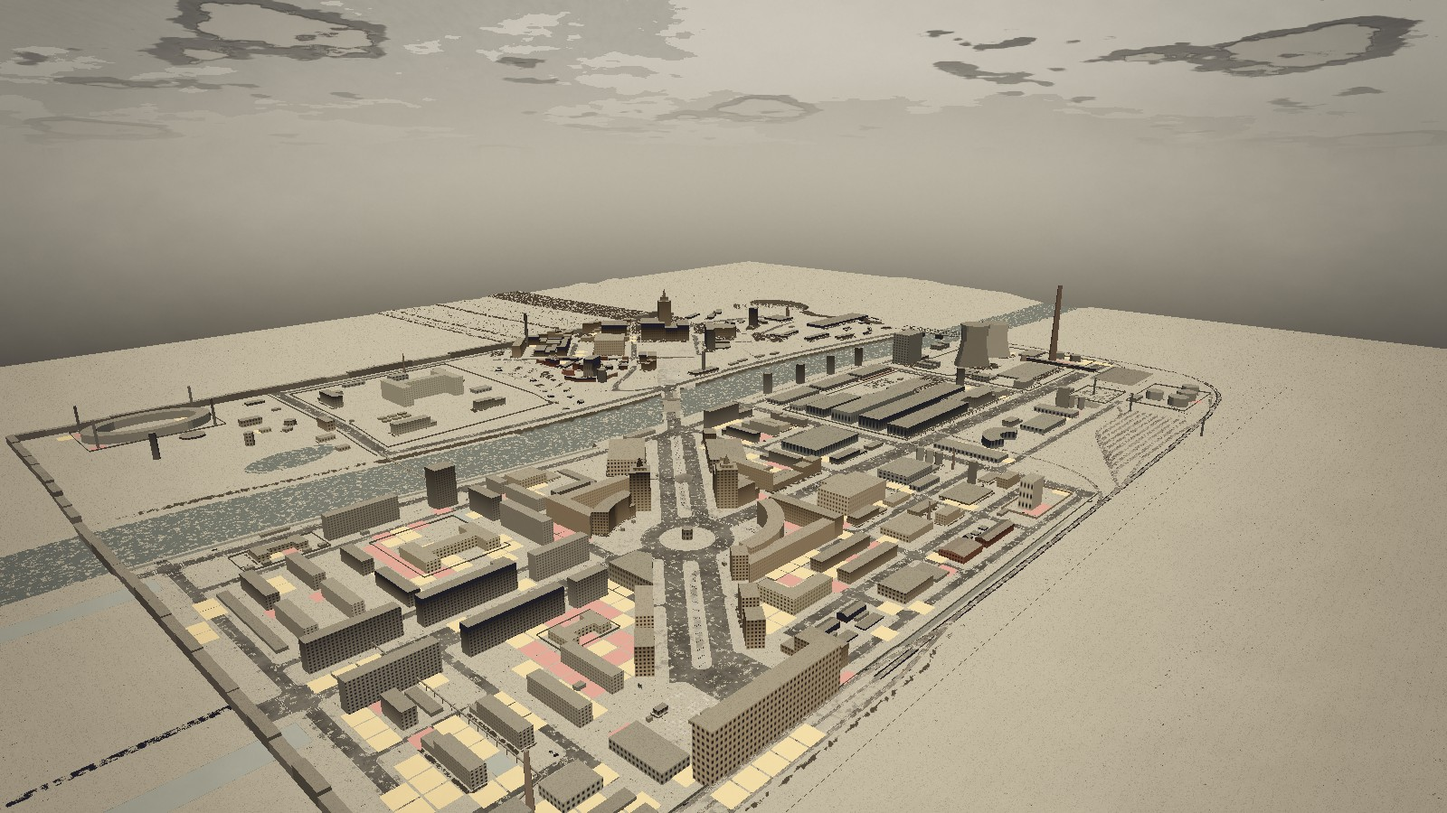
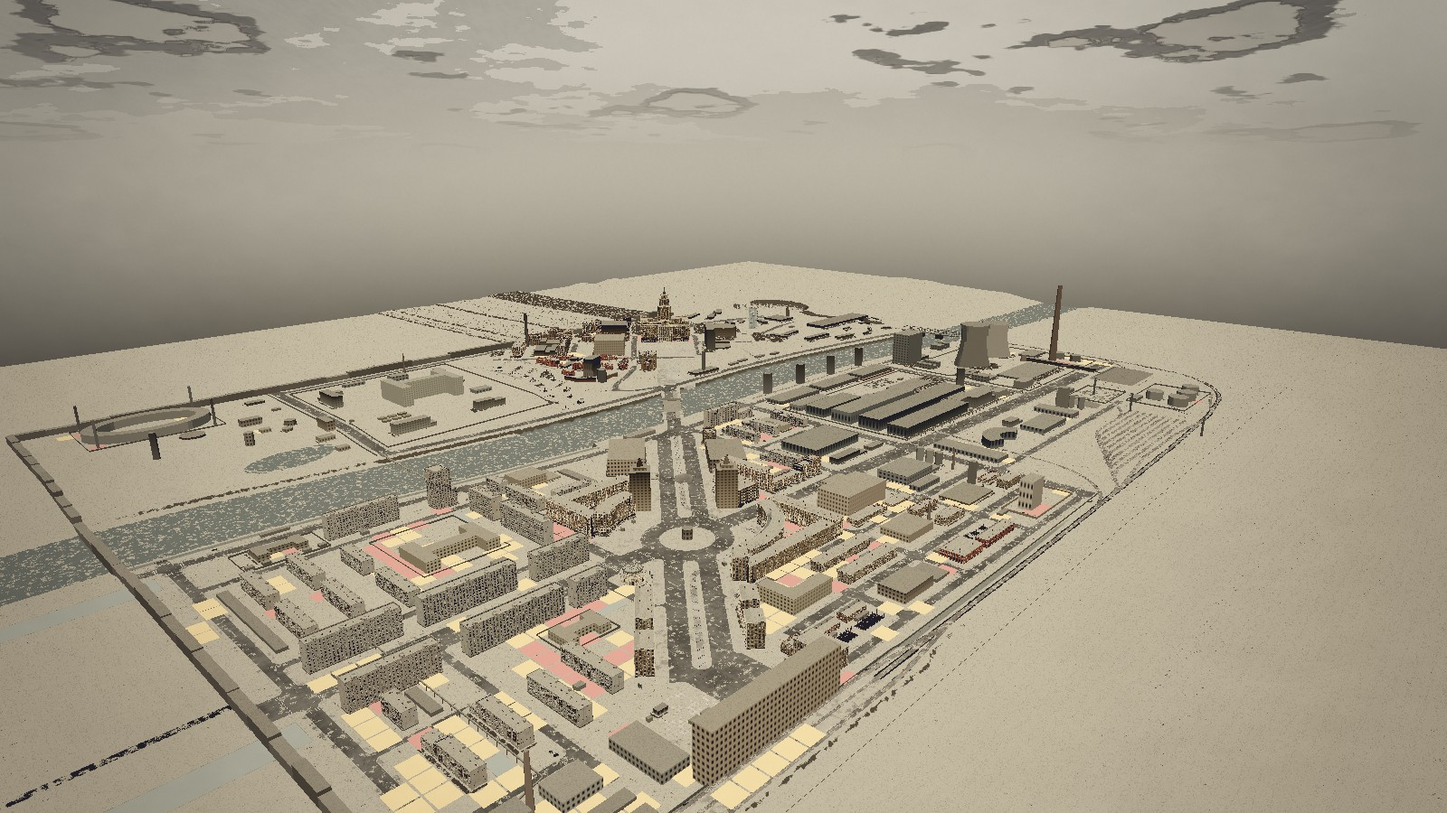
Documenta los edificios del kit en la maqueta y rehace sus capturas (F3-16)
CIUDAD.md explica las explanadas de los singulares (sección 5), cómo están los
edificios del kit en la maqueta (sus tres escalones de detalle, el zócalo en
ladera, el foso del vestíbulo y el boquete de los Sóviets) y pone al día el
tiempo de levantarla, el rendimiento medido y la regla de los hitos. Las
decisiones nuevas: D-051 (los edificios con modelo propio mandan sobre el plano
a su alrededor) y D-052 (tres escalones de detalle por edificio). DESARROLLO.md
suma CityKit, las vistas Ctrl+4 y Ctrl+5 y las cámaras nuevas del diorama; el
README, lo hecho y lo siguiente.

Capturas: las de la maqueta donde ahora se ven edificios del kit, las dos vistas
nuevas (el vestíbulo y la Casa de los Sóviets) y el barracón con su escalerilla.
Las que solo cambiaban las nubes (que se mueven con el reloj) se quedan como
estaban.

Claude-Session: https://claude.ai/code/session_01P5KpG2Qgr3Z8sBeyxBpkXC

diff --git a/docs/CIUDAD.md b/docs/CIUDAD.md
@@ -126,6 +126,8 @@ El relieve decide qué se ve y desde dónde:
 - El terraplén de la vía es un camino alto y expuesto.
 - Los montones de escombros cortan calles y abren pasos por encima.
 
+Los edificios con modelo propio (los singulares de [la sección 14](#14-cómo-se-construye)) se asientan en una explanada a su cota: el terreno se allana bajo su huella y unos metros alrededor (lo que el modelo sale de ella: el pórtico de la Casa de los Sóviets, por ejemplo), y vuelve a su altura en una transición suave. Tampoco reciben montones de escombros del plano: traen el suyo ([D-051](DECISIONES.md)).
+
 El relieve se exporta en `data/ciudad/relieve.png`: 16 bits, 2 m por píxel, y metros = valor / 100 − 50.
 
 ## 6. El río y sus cinco cruces
@@ -253,10 +255,10 @@ Los tipos siguen las medidas de las series soviéticas reales. Los interiores de
 
 1. **El plano son datos.** `tools/ciudad/datos.py` decide la posición, el tipo, las plantas, el uso y las notas de cada cosa. `plano.py` calcula el daño, los incendios, los escombros y el relieve, y lo exporta a `data/ciudad/plano.json`.
 2. **Maqueta automática** (hecha, F3-15): un generador en Godot lee el plano y levanta la ciudad en volúmenes sencillos (relieve, calles, edificios a su altura, escombros) para probar recorridos, vistas y rendimiento antes de construir nada. Ver [la sección 15](#15-la-maqueta).
-3. **Kit modular** (hecho para las viviendas, F3-16): cada tipo de edificio se monta con las piezas del kit de arquitectura soviética (paneles, ventanas, balcones, portales, escaleras, cubiertas), con el daño de su nivel y las variaciones de su semilla. Ya se montan las 138 viviendas del plano (las estalinistas y las casas obreras, las de antes de la revolución, las isbas, las jrushchovkas, los bloques, la torre y los barracones), con las mismas reglas de daño que la maqueta; el resto de los tipos sigue en volúmenes. Ver [DESARROLLO.md](DESARROLLO.md#el-kit-de-arquitectura-f3-16).
+3. **Kit modular** (hecho para las viviendas, F3-16): cada tipo de edificio se monta con las piezas del kit de arquitectura soviética (paneles, ventanas, balcones, portales, escaleras, cubiertas), con el daño de su nivel y las variaciones de su semilla. Ya se montan las 138 viviendas del plano (las estalinistas y las casas obreras, las de antes de la revolución, las isbas, las jrushchovkas, los bloques, la torre y los barracones), con las mismas reglas de daño que la maqueta, y ya están en ella; el resto de los tipos sigue en volúmenes. Ver [DESARROLLO.md](DESARROLLO.md#el-kit-de-arquitectura-f3-16).
 
    ![Una estalinista de esquina en la plaza del Trabajo, montada con el kit](capturas/fase3_kit_estalinka.jpg)
-4. **Sitios clave a mano:** los 44 edificios con interior hecho a mano y los lugares de las misiones se terminan uno a uno, como modelos enteros ([D-038](DECISIONES.md)). Hechos los tres primeros: el vestíbulo del metro (PLZ-06), con la sala, la esclusa y las escaleras; el Edificio Partido (ZC-01), con sus catorce plantas abiertas al cráter y la escalera hasta la azotea, y la Casa de los Sóviets con su torre (CEN-SOV y CEN-SOVT). Ver [DESARROLLO.md](DESARROLLO.md#los-edificios-singulares). Al llevarlos a la maqueta, el relieve tendrá que respetar sus huecos y quitar el montón de escombros que el generador pone sobre la huella del Edificio Partido, que ya trae el suyo.
+4. **Sitios clave a mano:** los 44 edificios con interior hecho a mano y los lugares de las misiones se terminan uno a uno, como modelos enteros ([D-038](DECISIONES.md)). Hechos los tres primeros: el vestíbulo del metro (PLZ-06), con la sala, la esclusa y las escaleras; el Edificio Partido (ZC-01), con sus catorce plantas abiertas al cráter y la escalera hasta la azotea, y la Casa de los Sóviets con su torre (CEN-SOV y CEN-SOVT). Ver [DESARROLLO.md](DESARROLLO.md#los-edificios-singulares). Ya están en la maqueta, cada uno en su explanada y sin el escombro del plano, y el terreno no tapa el foso de las escaleras del metro.
 5. **Carga por sectores:** la ciudad se carga en celdas de 200 × 200 m. Hay detalle completo en la celda del jugador y en las de alrededor, y versiones simplificadas más lejos. Las manzanas sirven de oclusores (lo que tapan no se dibuja), algo imprescindible para llegar a 60 fps con la gráfica integrada.
 
 **Para cambiar algo:** se edita `tools/ciudad/datos.py` y se ejecuta `make ciudad`. Si algo se solapa, pisa la calle o cae en la zona equivocada, el generador lo dice y la CI no pasa.
@@ -265,12 +267,13 @@ Los tipos siguen las medidas de las series soviéticas reales. Los interiores de
 
 ![Tumansk desde el aire, sin niebla](capturas/fase3_maqueta_aerea.jpg)
 
-La maqueta (`scenes/debug/maqueta_ciudad.tscn`, F3-15) levanta la ciudad entera desde los datos del plano en unos cinco segundos (tres son la red de tránsito, que se levanta sector a sector en varios hilos). Se recorre a pie (a 1,4 m/s y con colisión) o volando, y tiene herramientas para medir. Cómo se abre y sus teclas, en [DESARROLLO.md](DESARROLLO.md#la-maqueta-de-la-ciudad-f3-15).
+La maqueta (`scenes/debug/maqueta_ciudad.tscn`, F3-15) levanta la ciudad entera desde los datos del plano en unos nueve segundos (cuatro son la red de tránsito, que se levanta sector a sector en varios hilos, y uno y medio, los edificios del kit). Se recorre a pie (a 1,4 m/s y con colisión) o volando, y tiene herramientas para medir. Cómo se abre y sus teclas, en [DESARROLLO.md](DESARROLLO.md#la-maqueta-de-la-ciudad-f3-15).
 
 - **Lo que se levanta:**
   - El relieve, cada 2 m, pintado con el suelo del plano (el hielo, las vías, los patios y los escombros) bajo la nieve vieja.
   - La red de tránsito: calzadas, aceras, plazas, sendas, escaleras y el tablero del puente, con sus bordillos, muros, pretiles, pasos de cebra, tapas y sumideros. Ver [la sección 16](#16-la-red-de-tránsito).
   - Los 357 edificios, a su altura y con lo que queda en pie según su daño. Las torres llevan aguja (la de la Casa de los Sóviets, doblada hacia el suroeste), las chimeneas se estrechan, las torres de refrigeración tienen su forma y las casas de madera y las de antes de la revolución llevan tejado a dos aguas.
+  - Los 142 que sabe montar el kit de arquitectura (las 138 viviendas y los cuatro singulares) son, de cerca, sus modelos; de lejos, sus volúmenes ([la sección de abajo](#los-edificios-del-kit-en-la-maqueta)).
   - Los 866 vehículos, los 2685 árboles y los puentes (el del Progreso, con su vano hundido sobre el hielo, y el del ferrocarril, de celosía).
   - Las tuberías elevadas (el tubo cruza el río con su pasarela), las vallas, la línea eléctrica y el muro de la autovía caída al oeste y al norte.
 - **El daño en volumen:**
@@ -283,23 +286,36 @@ La maqueta (`scenes/debug/maqueta_ciudad.tscn`, F3-15) levanta la ciudad entera 
 
 ![Las rutas y los sectores de la orilla sur](capturas/fase3_maqueta_rutas.jpg)
 
+### Los edificios del kit en la maqueta
+
+Los edificios que sabe montar el kit (F3-16) se levantan con su ficha del plano: su huella, sus plantas, su daño y su incendio, los patios de su manzana y dónde cayó la bomba. Levantar la ciudad con ellos cuesta un segundo y medio más.
+
+- **De cerca, su modelo; de lejos, su volumen** ([D-052](DECISIONES.md)). Dentro de la versión detallada de su sector, cada edificio tiene tres escalones: su volumen a más de 200 m; de 200 a 60 m, su modelo sin sombras (las proyecta su volumen); y, más cerca, el modelo entero. Lo que va en los huecos de las fachadas (ventanas, puertas, escaparates y los cuartos de detrás) no proyecta sombra nunca. Los hitos siguen viéndose de lejos, solos, como siempre.
+- **En ladera**, el kit pone el edificio a su cota y la maqueta le añade un zócalo de piedra hasta 40 cm por debajo del punto más bajo de su huella, para que no flote por el lado de abajo. Lo llevan 41 de los 138 (los que tienen más de 15 cm de desnivel bajo la huella); bajo las isbas de la loma hay hasta 1,7 m.
+- **Los singulares** (el vestíbulo del metro, el Edificio Partido y la Casa de los Sóviets con su torre) están en su explanada, sin el escombro del plano. Chocan con su propia colisión, así que en ellos se entra, y no tapan la vista como oclusores (se ve a través de su peristilo, sus plantas abiertas y su boquete). En el vestíbulo, el terreno no se dibuja ni choca donde bajan las escaleras: se sale del metro por su foso. En la Casa de los Sóviets se sube por el escombro de la fachada reventada hasta el boquete y se baja al cuarto quemado que quedó detrás.
+- **Los demás** chocan como su volumen: no se entra en ellos.
+
+| | |
+|---|---|
+| ![El vestíbulo del metro en su plaza, en la maqueta](capturas/fase3_maqueta_vestibulo.jpg) | ![La Casa de los Sóviets cierra la avenida, en la maqueta](capturas/fase3_maqueta_soviets.jpg) |
+
 ### Lo que ha enseñado la maqueta
 
-- **Los hitos se ven desde casi toda la calle, pero no desde los patios.** Con línea de visión desde la altura de los ojos (cada 20 m, fuera de los edificios), desde el 92 % de los 4039 puntos se ven al menos dos hitos. Por zonas:
+- **Los hitos se ven desde casi toda la calle, pero no desde los patios.** Con línea de visión desde la altura de los ojos (cada 20 m, fuera de los edificios), desde el 92 % de los 4055 puntos se ven al menos dos hitos. Por zonas:
 
   | Zona | Se ven dos o más |
   |---|---|
   | El río, el Parque y el Hospital, la Zona Industrial | 97–100 % |
-  | El Centro, la Zona Cero | 93–95 % |
-  | La Avenida y el Mercado, el Barrio Obrero, La Plaza | 82–83 % |
-  | Los Bloques | 73 % |
+  | El Centro, la Zona Cero | 91–93 % |
+  | La Avenida y el Mercado, el Barrio Obrero, La Plaza | 80–84 % |
+  | Los Bloques | 75 % |
 
   Los puntos ciegos son casi todos patios cerrados: los de los microdistritos, los del Barrio Obrero y los de las manzanas estalinistas (rosa: ningún hito; amarillo: uno). La regla del plano («desde cualquier punto») se cumple en las calles; en los patios habría que aceptarlo o añadir hitos que asomen por encima de los tejados (una chimenea de calefacción, un depósito de agua, una antena).
 
   ![Puntos ciegos: desde las baldosas rosas no se ve ningún hito; desde las amarillas, uno](capturas/fase3_maqueta_hitos.jpg)
 
 - **La niebla de día tapa la ciudad a partir de unos 300 m.** Solo los hitos la atraviesan ([D-027](DECISIONES.md)): por eso desde la avenida se ve la torre de la Casa de los Sóviets a 850 m, pero no el resto del centro.
-- **Rendimiento** (contado en el entorno de desarrollo, sin gráfica; los fps hay que medirlos en tu PC con la tecla B): a pie de calle se dibujan entre 80 y 200 objetos por imagen (llamadas de dibujo) y entre 0,48 y 0,6 millones de triángulos, con la oclusión activa (quita hasta una cuarta parte de las llamadas en la zona industrial y alrededor de un 12 % en la plaza). La mayor parte de los triángulos es el relieve detallado, no los edificios: es lo primero que habría que aligerar si hiciera falta.
+- **Rendimiento** (contado en el entorno de desarrollo, sin gráfica; los fps hay que medirlos en tu PC con la tecla B): a pie de calle, con la red de tránsito y los edificios del kit, se dibujan entre 120 y 1.250 objetos por imagen (llamadas de dibujo, contando las de las sombras) y entre 0,4 y 1,9 millones de triángulos. Las calles con edificios del kit son las más caras (entre 900 y 1.250 llamadas; con volúmenes, entre 400 y 670), y las sombras se llevan entre un tercio y la mitad. La oclusión activa quita hasta una cuarta parte de las llamadas en la zona industrial. Si hiciera falta aligerar, lo siguiente es juntar las piezas iguales de los edificios de una manzana en una sola malla (ahora cada edificio tiene una por pieza).
 
 | | |
 |---|---|

diff --git a/README.md b/README.md
@@ -102,11 +102,16 @@ Todo está explicado en [docs/CIUDAD.md](docs/CIUDAD.md), con cuatro hojas: [gen
 | ![Tumansk desde el aire, sin niebla](docs/capturas/fase3_maqueta_aerea.jpg) | ![La avenida, hacia el puente y la Casa de los Sóviets](docs/capturas/fase3_maqueta_avenida.jpg) |
 | ![Las rutas y los sectores](docs/capturas/fase3_maqueta_rutas.jpg) | ![El panel: dónde estás, qué tienes delante y qué hitos se ven](docs/capturas/fase3_maqueta_panel.jpg) |
 
-La ciudad entera en 3D, levantada desde el plano en volúmenes sencillos: el relieve, las calles, los 357 edificios a su altura y con lo que queda en pie según su daño, los vehículos, los árboles y los puentes. Sirve para probar recorridos, vistas, sectores de carga y rendimiento antes de construir con el kit modular.
+La ciudad entera en 3D, levantada desde el plano: el relieve, las calles, los 357 edificios a su altura y con lo que queda en pie según su daño, los vehículos, los árboles y los puentes. Los 142 edificios que ya tienen modelo (las viviendas del kit y los singulares) se ven con él de cerca; los demás, y todos de lejos, en volúmenes sencillos. Sirve para probar recorridos, vistas, sectores de carga y rendimiento.
+
+| | |
+|---|---|
+| ![El vestíbulo del metro en su plaza](docs/capturas/fase3_maqueta_vestibulo.jpg) | ![La Casa de los Sóviets cierra la avenida](docs/capturas/fase3_maqueta_soviets.jpg) |
 
 - **Para abrirla:** en Godot, `scenes/debug/maqueta_ciudad.tscn` y **F6**. Se recorre a pie (Tab para volar), con vistas fijas (1-9 y 0) y recorridos automáticos de las rutas del plano con cronómetro (R).
 - **Herramientas:** cuenta los hitos que se ven desde donde estás (y comprueba la regla en toda la ciudad con V) y mide el rendimiento en tu PC (B). Todas las teclas, en [DESARROLLO.md](docs/DESARROLLO.md#la-maqueta-de-la-ciudad-f3-15).
 - **Lo que ha enseñado**, en [CIUDAD.md](docs/CIUDAD.md#15-la-maqueta): desde el 92 % de la calle se ven al menos dos hitos, pero no desde los patios cerrados; y la niebla de día tapa la ciudad a partir de unos 300 m, así que los hitos la atraviesan.
+- **Los edificios del kit en ella** ([CIUDAD.md](docs/CIUDAD.md#los-edificios-del-kit-en-la-maqueta)): cada uno tiene tres escalones de detalle (su volumen a más de 200 m, su modelo sin sombras hasta 60 m y entero más cerca) para que el coste de dibujo no se dispare ([D-052](docs/DECISIONES.md)); los que están en ladera llevan un zócalo, y los singulares se asientan en una explanada del plano ([D-051](docs/DECISIONES.md)). Se sale del metro por el foso de las escaleras del vestíbulo, y en la Casa de los Sóviets se sube por el escombro hasta el boquete.
 
 ### Los edificios de la superficie (F3-16)
 
@@ -133,14 +138,15 @@ Las 138 viviendas del plano ya tienen sus modelos 3D: se montan con un kit de pi
 | ![El vestíbulo del metro desde la avenida: la rotonda, la columnata, МЕТРО y el control del ejército](docs/capturas/fase3_singular_vestibulo.jpg) | ![La cúpula de la sala, con la lámpara y la linterna sobre el óculo](docs/capturas/fase3_singular_vestibulo_cupula.jpg) |
 | ![La esclusa de la defensa civil con la compuerta abierta: por ahí sales](docs/capturas/fase3_singular_vestibulo_compuerta.jpg) | ![El Edificio Partido desde el cráter: los pisos abiertos, como una casa de muñecas](docs/capturas/fase3_singular_partido.jpg) |
 | ![Las plantas del Edificio Partido al borde del vacío](docs/capturas/fase3_singular_partido_casa.jpg) | ![La Casa de los Sóviets y su torre al final de la avenida](docs/capturas/fase3_singular_soviets.jpg) |
+| ![El escombro de la fachada reventada de la Casa de los Sóviets: por él se sube al boquete](docs/capturas/fase3_singular_soviets_escombro.jpg) | ![El cuarto quemado detrás del boquete, con lo que ardió de las oficinas](docs/capturas/fase3_singular_soviets_cuarto.jpg) |
 
 Los hitos y los sitios clave no salen del kit: son modelos enteros, hechos uno a uno con el máximo cuidado, que se ponen por su id del plano. Los tres primeros:
 
 - **El vestíbulo del metro** (PLZ-06, tu salida): una rotonda de los años cincuenta con veinte columnas, la cúpula de chapa con su linterna y la estrella, y МЕТРО sobre la entrada; delante, el control del ejército de la evacuación. Por dentro se recorre entero: la sala con su cúpula de casetones, la lámpara, los torniquetes y el equipaje abandonado, y la esclusa de hormigón con la compuerta blindada por la que sales, sobre las tres escaleras mecánicas que bajan a oscuras.
 - **El Edificio Partido** (ZC-01, donde termina el juego): un instituto de catorce plantas al que la bomba arrancó la mitad que la miraba. Lo que queda tiene los pisos abiertos al cráter, con los laboratorios y los despachos al borde del vacío, forjados colgando y el montón de escombros al pie; se sube por su escalera hasta la azotea, que mira al cráter.
-- **La Casa de los Sóviets y su torre** (CEN-SOV y CEN-SOVT): el bloque estalinista que cierra la avenida, con su pórtico de columnas gigantes y el escudo, quemado entero y con la fachada noreste reventada; la torre, de 110 m, con la aguja doblada hacia el suroeste y el puesto del vigía en la planta 20.
+- **La Casa de los Sóviets y su torre** (CEN-SOV y CEN-SOVT): el bloque estalinista que cierra la avenida, con su pórtico de columnas gigantes y el escudo, quemado entero y con la fachada noreste reventada: su escombro sale hasta la calle, y por él se sube al boquete y se baja al cuarto quemado de detrás, entre archivadores, la caja fuerte y mesas carbonizadas. La torre, de 110 m, tiene la aguja doblada hacia el suroeste y el puesto del vigía en la planta 20.
 
-Tienen su colisión hecha a mano (los escalones y las escaleras son rampas) y dicen dónde quitar el terreno cuando bajan bajo la calle. Se ven en `diorama_vestibulo.tscn`, `diorama_partido.tscn` y `diorama_soviets.tscn` ([DESARROLLO.md](docs/DESARROLLO.md#los-edificios-singulares)).
+Tienen su colisión hecha a mano (los escalones y las escaleras son rampas) y dicen dónde quitar el terreno cuando bajan bajo la calle. Se ven en `diorama_vestibulo.tscn`, `diorama_partido.tscn` y `diorama_soviets.tscn` ([DESARROLLO.md](docs/DESARROLLO.md#los-edificios-singulares)), y ya están en la maqueta.
 
 ### Decisiones tomadas
 
@@ -176,8 +182,8 @@ Tienen su colisión hecha a mano (los escalones y las escaleras son rampas) y di
 1. **Fase 1**: revisar las capturas, el [vídeo](docs/capturas/fase1_dioramas.mp4) y las piezas de interfaz, y aprobar el estilo. Con eso empiezan de lleno las Fases 2 y 3.
 2. **Tu revisión de los protagonistas** (capturas de arriba): ¿tienen ya el tono de Tumansk?
 3. **Fase 2**: seguir con el depósito jugable; lo siguiente es el primer día (limpiar) y el procesado del botín.
-4. **La maqueta** (F3-15): abrirla en tu PC, recorrerla y medir el rendimiento con la tecla B (aquí no hay gráfica, solo puedo contar llamadas de dibujo y triángulos).
-5. **Los edificios** (F3-16): revisar las capturas y recorrer con F6 los dioramas de edificios y los de los tres singulares (el vestíbulo del metro, el Edificio Partido y la Casa de los Sóviets). Lo siguiente sería usarlos en la maqueta, cerca del jugador, los interiores de serie y el resto de los sitios clave.
+4. **La maqueta** (F3-15): abrirla en tu PC, recorrerla y medir el rendimiento con la tecla B (aquí no hay gráfica, solo puedo contar llamadas de dibujo y triángulos). Ahora, con los edificios del kit, las calles residenciales cuestan entre 900 y 1.250 llamadas: es la medida que más interesa.
+5. **Los edificios** (F3-16): revisar las capturas, recorrer con F6 los dioramas de edificios y los de los tres singulares, y verlos en la maqueta (Ctrl+4 y Ctrl+5: el vestíbulo y la Casa de los Sóviets). Lo siguiente serían los interiores de serie, el resto de los sitios clave y, si el rendimiento lo pide, juntar las piezas iguales de cada manzana.
 6. Responder las [preguntas abiertas](#17-preguntas-abiertas) que quedan: dos son nuevas y salen de la maqueta.
 
 ---

diff --git a/docs/DESARROLLO.md b/docs/DESARROLLO.md
@@ -45,7 +45,7 @@ Tumansk entera, levantada desde el plano en volúmenes sencillos para probar rec
 | Tab | Andar (con colisión, a 1,4 m/s) o volar (sin colisión) |
 | 1-9 y 0 | Las vistas fijas: la salida, la avenida, Los Bloques, el río, el puente, la Escalinata, la zona industrial, la Zona Cero, la ciudad desde el aire y las rutas desde el aire |
 | Mayús+1-0 | Las vistas de la red de tránsito: la Escalinata desde abajo, un cruce del Barrio Obrero, el vano hundido del puente, las escaleras de la loma, los andenes de la estación, la playa de vías, un paso a nivel, un desvío del escape de la playa, un tope y el tranvía por la mediana de la Avenida |
-| Ctrl+1-3 | Las vistas del deterioro: el socavón de la avenida, la galería de la calefacción hundida frente a la fábrica y una tubería del agua reventada en la calle de la Juventud |
+| Ctrl+1-5 | Las vistas del deterioro (el socavón de la avenida, la galería de la calefacción hundida frente a la fábrica y una tubería del agua reventada en la calle de la Juventud) y dos de los edificios singulares: el vestíbulo del metro desde la plaza y la Casa de los Sóviets al final de la avenida |
 | R / Mayús+R | Recorre la ruta siguiente / anterior del plano a paso de persona, con cronómetro. **+** y **-** la aceleran (×4, ×16); Retroceso la para |
 | F2 / F3 / F4 | Capas: las rutas; la rejilla de sectores y las zonas; los hitos que se ven desde donde estás |
 | V | Comprueba en toda la ciudad la regla «desde cualquier punto se ven al menos dos hitos» y marca los puntos ciegos (rosa: ninguno; amarillo: uno) |
@@ -63,6 +63,7 @@ Es una herramienta de desarrollo: lee `data/ciudad/` directamente (ver [D-024](D
 |---|---|
 | `scripts/surface/city_plan.gd` | `CityPlan`: lee el plano, el relieve (16 bits) y el suelo; alturas, sectores, zonas y conversión de coordenadas |
 | `scripts/surface/city.gd` | `City`: levanta los 48 sectores, cada uno con su versión lejana y la detallada, colisión y oclusores |
+| `scripts/surface/city_kit.gd` | `CityKit`: los edificios del kit en la maqueta: su ficha, el zócalo en ladera, el foso del vestíbulo en el terreno y qué piezas no proyectan sombra ([D-052](DECISIONES.md)) |
 | `scripts/surface/city_terrain.gd` | El relieve por sectores (cada 2 m y cada 8 m) y su colisión |
 | `scripts/surface/city_buildings.gd` | Cada edificio a su altura, con su cubierta y lo que queda en pie según su daño |
 | `scripts/surface/city_props.gd` | Vehículos, árboles, puentes, tuberías, vallas, la línea eléctrica y los muros del borde |
@@ -123,12 +124,12 @@ Los hitos y los sitios clave no se montan con piezas: cada uno es un modelo ente
 |---|---|---|---|
 | `singular_vestibulo` | `tools/blender/recipes/singular_vestibulo.py` | PLZ-06 | La rotonda por fuera y por dentro, la esclusa con las escaleras y el túnel, la compuerta (aparte, para poder moverla) y el control del ejército |
 | `singular_partido` | `tools/blender/recipes/singular_partido.py` | ZC-01 | La estructura rota, las fachadas, los tabiques y la escalera hasta la azotea; los muebles; el montón de escombros |
-| `singular_soviets` | `tools/blender/recipes/singular_soviets.py` | CEN-SOV y CEN-SOVT | El bloque quemado con su boquete y la torre con la aguja doblada y el puesto del vigía (dos modelos: `soviets` y `torre_soviets`) |
+| `singular_soviets` | `tools/blender/recipes/singular_soviets.py` | CEN-SOV y CEN-SOVT | El bloque quemado con su boquete (su escombro sale a la calle: por él se sube al boquete y se baja al cuarto quemado de detrás, con los archivadores, la caja fuerte y las mesas) y la torre con la aguja doblada y el puesto del vigía (dos modelos: `soviets` y `torre_soviets`) |
 
 - **El marco:** cada modelo se hace en las coordenadas del plano (x al este, y al norte, z arriba) alrededor del «centro» de su ficha, a su cota, y se pone tal cual, sin girarlo ni estirarlo. Dentro de la receta conviene un marco propio (el eje de la rotonda, el eje largo del edificio) y llevarlo al plano al final.
-- **Sus piezas** son las mallas que se llaman como el modelo o empiezan por su nombre y un guion bajo. Dos no se dibujan: `<modelo>_colision`, la colisión hecha a mano (suelos, muros, columnas; los escalones y las escaleras son rampas, porque el jugador no sube escalones de 16 cm), y `<modelo>_hueco`, dónde no va el terreno cuando el edificio baja bajo la calle (el foso de las escaleras del metro). Los triángulos del hueco quedan en los metadatos del edificio (`kit_huecos`, en coordenadas de plano): los dioramas recortan su suelo con ellos y la maqueta tendrá que hacer lo mismo con su relieve.
+- **Sus piezas** son las mallas que se llaman como el modelo o empiezan por su nombre y un guion bajo. Dos no se dibujan: `<modelo>_colision`, la colisión hecha a mano (suelos, muros, columnas; los escalones y las escaleras son rampas, porque el jugador no sube escalones de 16 cm), y `<modelo>_hueco`, dónde no va el terreno cuando el edificio baja bajo la calle (el foso de las escaleras del metro). Los triángulos del hueco quedan en los metadatos del edificio (`kit_huecos`, en coordenadas de plano): los dioramas recortan su suelo con ellos y la maqueta, su relieve (`CityKit`).
 - **La nieve de dentro:** el material `nevado_parcial` pone la nieve que dice el alfa del color de vértice ([D-039](DECISIONES.md)): en el Partido nieva junto al borde roto y las ventanas reventadas, no en el fondo de los pasillos.
-- **Para verlos**, con **F6**: `scenes/style/diorama_vestibulo.tscn` (la avenida, el control, la entrada, el peristilo, la sala, la cúpula, la compuerta, las escaleras y desde el aire), `diorama_partido.tscn` (desde el cráter, la casa de muñecas de cerca, la esquina, el testero, la entrada, un pasillo, la escalera, el borde, la azotea y desde el aire) y `diorama_soviets.tscn` (la avenida, la plaza, el pórtico, el escudo, el boquete, la esquina, la torre, el vigía y desde el aire). Las cámaras de dentro se ven mejor con `set_flashlight`.
+- **Para verlos**, con **F6**: `scenes/style/diorama_vestibulo.tscn` (la avenida, el control, la entrada, el peristilo, la sala, la cúpula, la compuerta, las escaleras y desde el aire), `diorama_partido.tscn` (desde el cráter, la casa de muñecas de cerca, la esquina, el testero, la entrada, un pasillo, la escalera, el borde, la azotea y desde el aire) y `diorama_soviets.tscn` (la avenida, la plaza, el pórtico, el escudo, el boquete, su escombro desde la calle, el cuarto quemado de detrás, la esquina, la torre, el vigía y desde el aire). Las cámaras de dentro se ven mejor con `set_flashlight`.
 
 **Para añadir uno:** escribe `tools/blender/recipes/singular_<nombre>.py` con su `models()`, añade su biblioteca a `BuildingKit.LIBRARIES` y su id a `KitSingular.MODELS`, y genera el modelo. El test (`test_singular_buildings_are_whole`) comprueba que no falte ninguna pieza, que tenga colisión, que las piezas ocultas no se dibujen y que quepa en su parcela. Las reglas de modelado son las del kit ([ESTILO.md](ESTILO.md#reglas-de-modelado-para-la-tinta)).
 

diff --git a/docs/DECISIONES.md b/docs/DECISIONES.md
@@ -213,3 +213,17 @@ Sustituye a D-048 en cómo se ponen las manos; lo de no necesitar datos por obje
 - Lo que cabe en una mano (hasta 14 cm y 1,5 kg), por el medio, con la derecha y los dedos cerrados alrededor; va un poco a la derecha y se coloca por el agarre, de modo que una escoba sobresale por arriba.
 - Lo que se lleva va derecho en el mundo, así que al mirar abajo gira respecto a la cámara y su parte de abajo se esconde. Al cogerlo se buscan varias alturas en cada costado y se usa la más baja que se vea; si las manos quedan en el borde de la vista, agarran más arriba. Si gira tanto que los costados ya no quedan a los lados (al inspeccionarlo), se vuelven a buscar.
 - Cada antebrazo se orienta para que la palma mire al objeto, sin doblar la muñeca de más y con el final de la manga fuera de la vista: el modelo solo tiene antebrazos.
+
+## D-051 · Los edificios con modelo propio mandan sobre el plano a su alrededor
+
+El plano les apilaba montones de escombro sobre la huella, por su daño, y los dejaba en la ladera del relieve. Los montones tapaban plantas bajas, entradas y el pórtico; y bajo la Casa de los Sóviets el terreno variaba ±0,9 m, así que asomaba dentro de sus patios y en la planta baja abierta del Edificio Partido. Ahora, los edificios con modelo propio (`MODELO_PROPIO` en `tools/ciudad/datos.py`: los de `KitSingular`) no reciben montones del plano, porque su receta trae su escombro, y se asientan en una explanada a su cota (`EXPLANADAS`): llano bajo la huella entera (con lo que haya en sus patios cerrados) y unos metros alrededor (lo que el modelo sale de ella: el basamento del vestíbulo, el escombro del Partido, el pórtico de los Sóviets), y una transición suave hasta el terreno. El tránsito sale del terreno, así que sigue la explanada. Los demás edificios del kit, cerrados, se quedan en su ladera con un zócalo de piedra hasta el punto más bajo de su huella.
+
+## D-052 · El kit en la maqueta: tres escalones de detalle por edificio
+
+Un bloque del kit son unas sesenta mallas (una MultiMesh por pieza), y cada una se dibuja en la pasada de color y en cada cascada de sombras. Con el relevo solo por sectores (a 450 m), a pie de calle se llegaba a 3.600 llamadas de dibujo, seis veces más que con volúmenes. Ahora cada edificio del kit tiene tres escalones dentro de la versión detallada de su sector:
+
+- A más de 200 m (`kit_distance`), su volumen.
+- De 200 a 60 m, su modelo sin sombras. La sombra la proyecta su volumen, metido 40 cm hacia dentro para no quitarle la luz a su propia fachada.
+- A menos de 60 m (`kit_shadow_distance`), el modelo entero, con sus sombras.
+
+Las tres versiones miden la distancia desde el mismo punto (el centro del volumen), para que cambien a la vez. Además, lo que va en los huecos de las fachadas (ventanas, puertas, escaparates y los cuartos de detrás) no proyecta sombra nunca: la sombra de un hueco la hace su muro, y en una calle es la mitad de las mallas. Con eso, las calles con edificios del kit se quedan entre 900 y 1.250 llamadas (con volúmenes, entre 400 y 670). Los singulares, de pocas mallas, se dibujan enteros a menos de 200 m.
